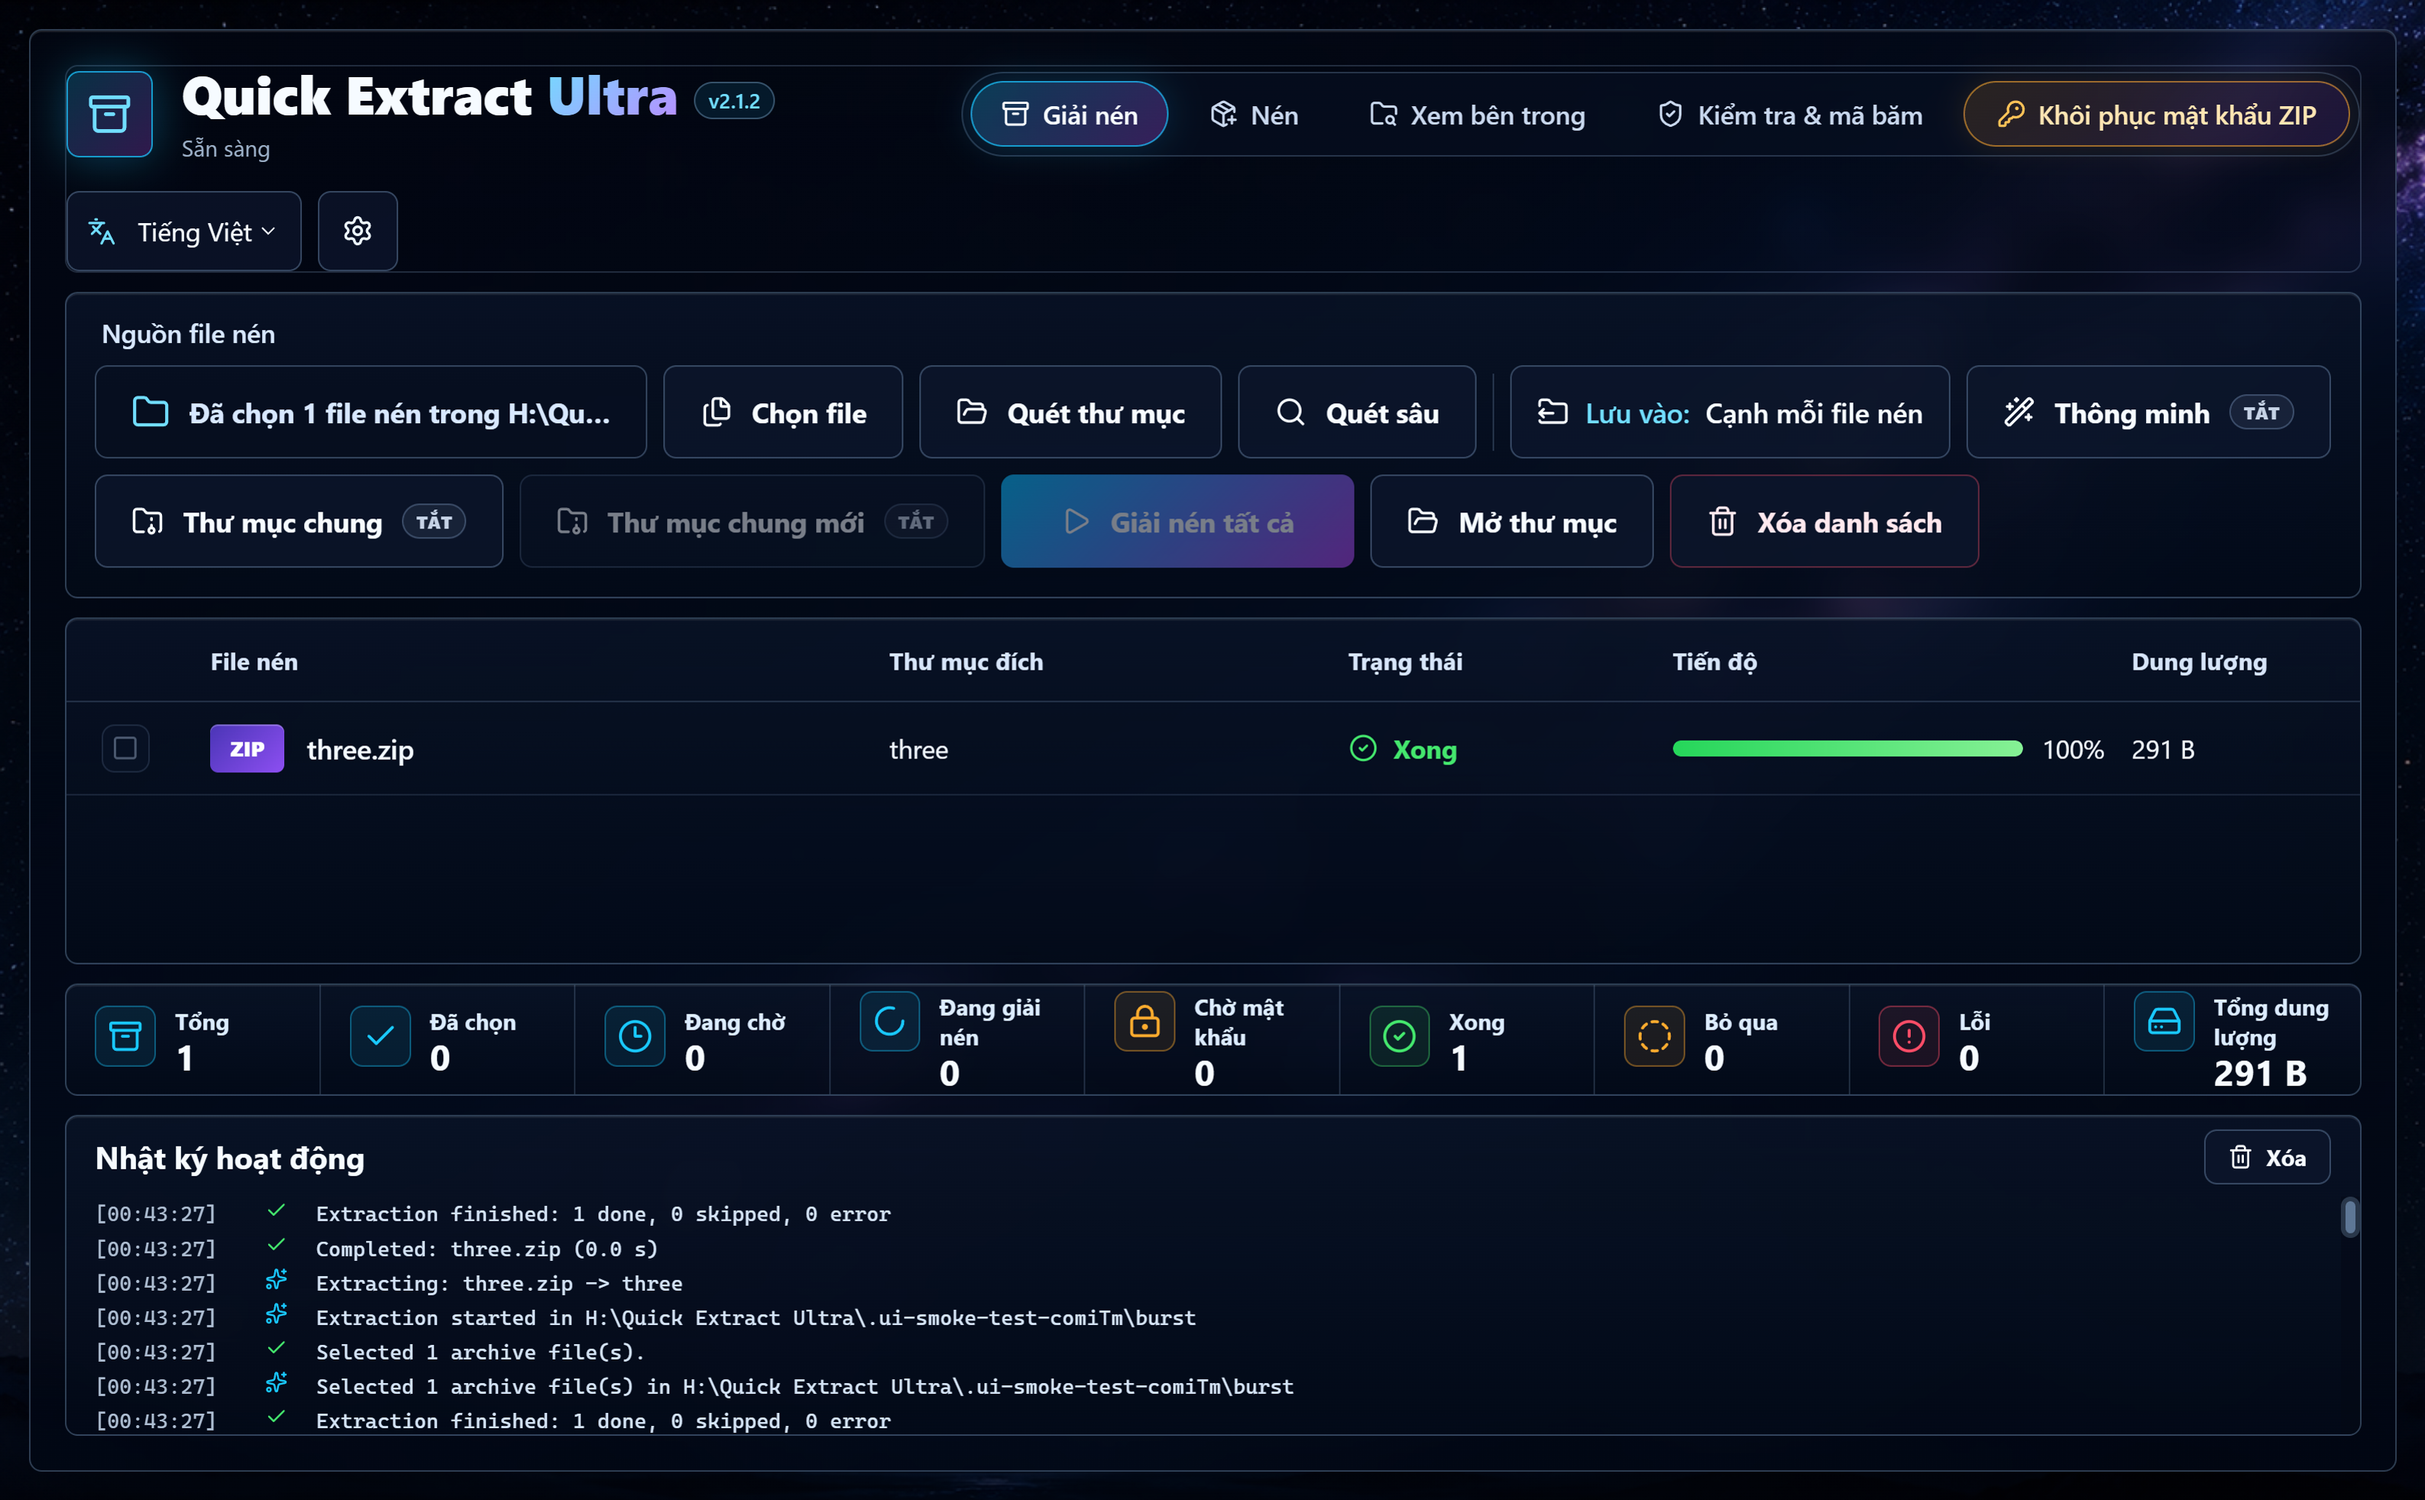
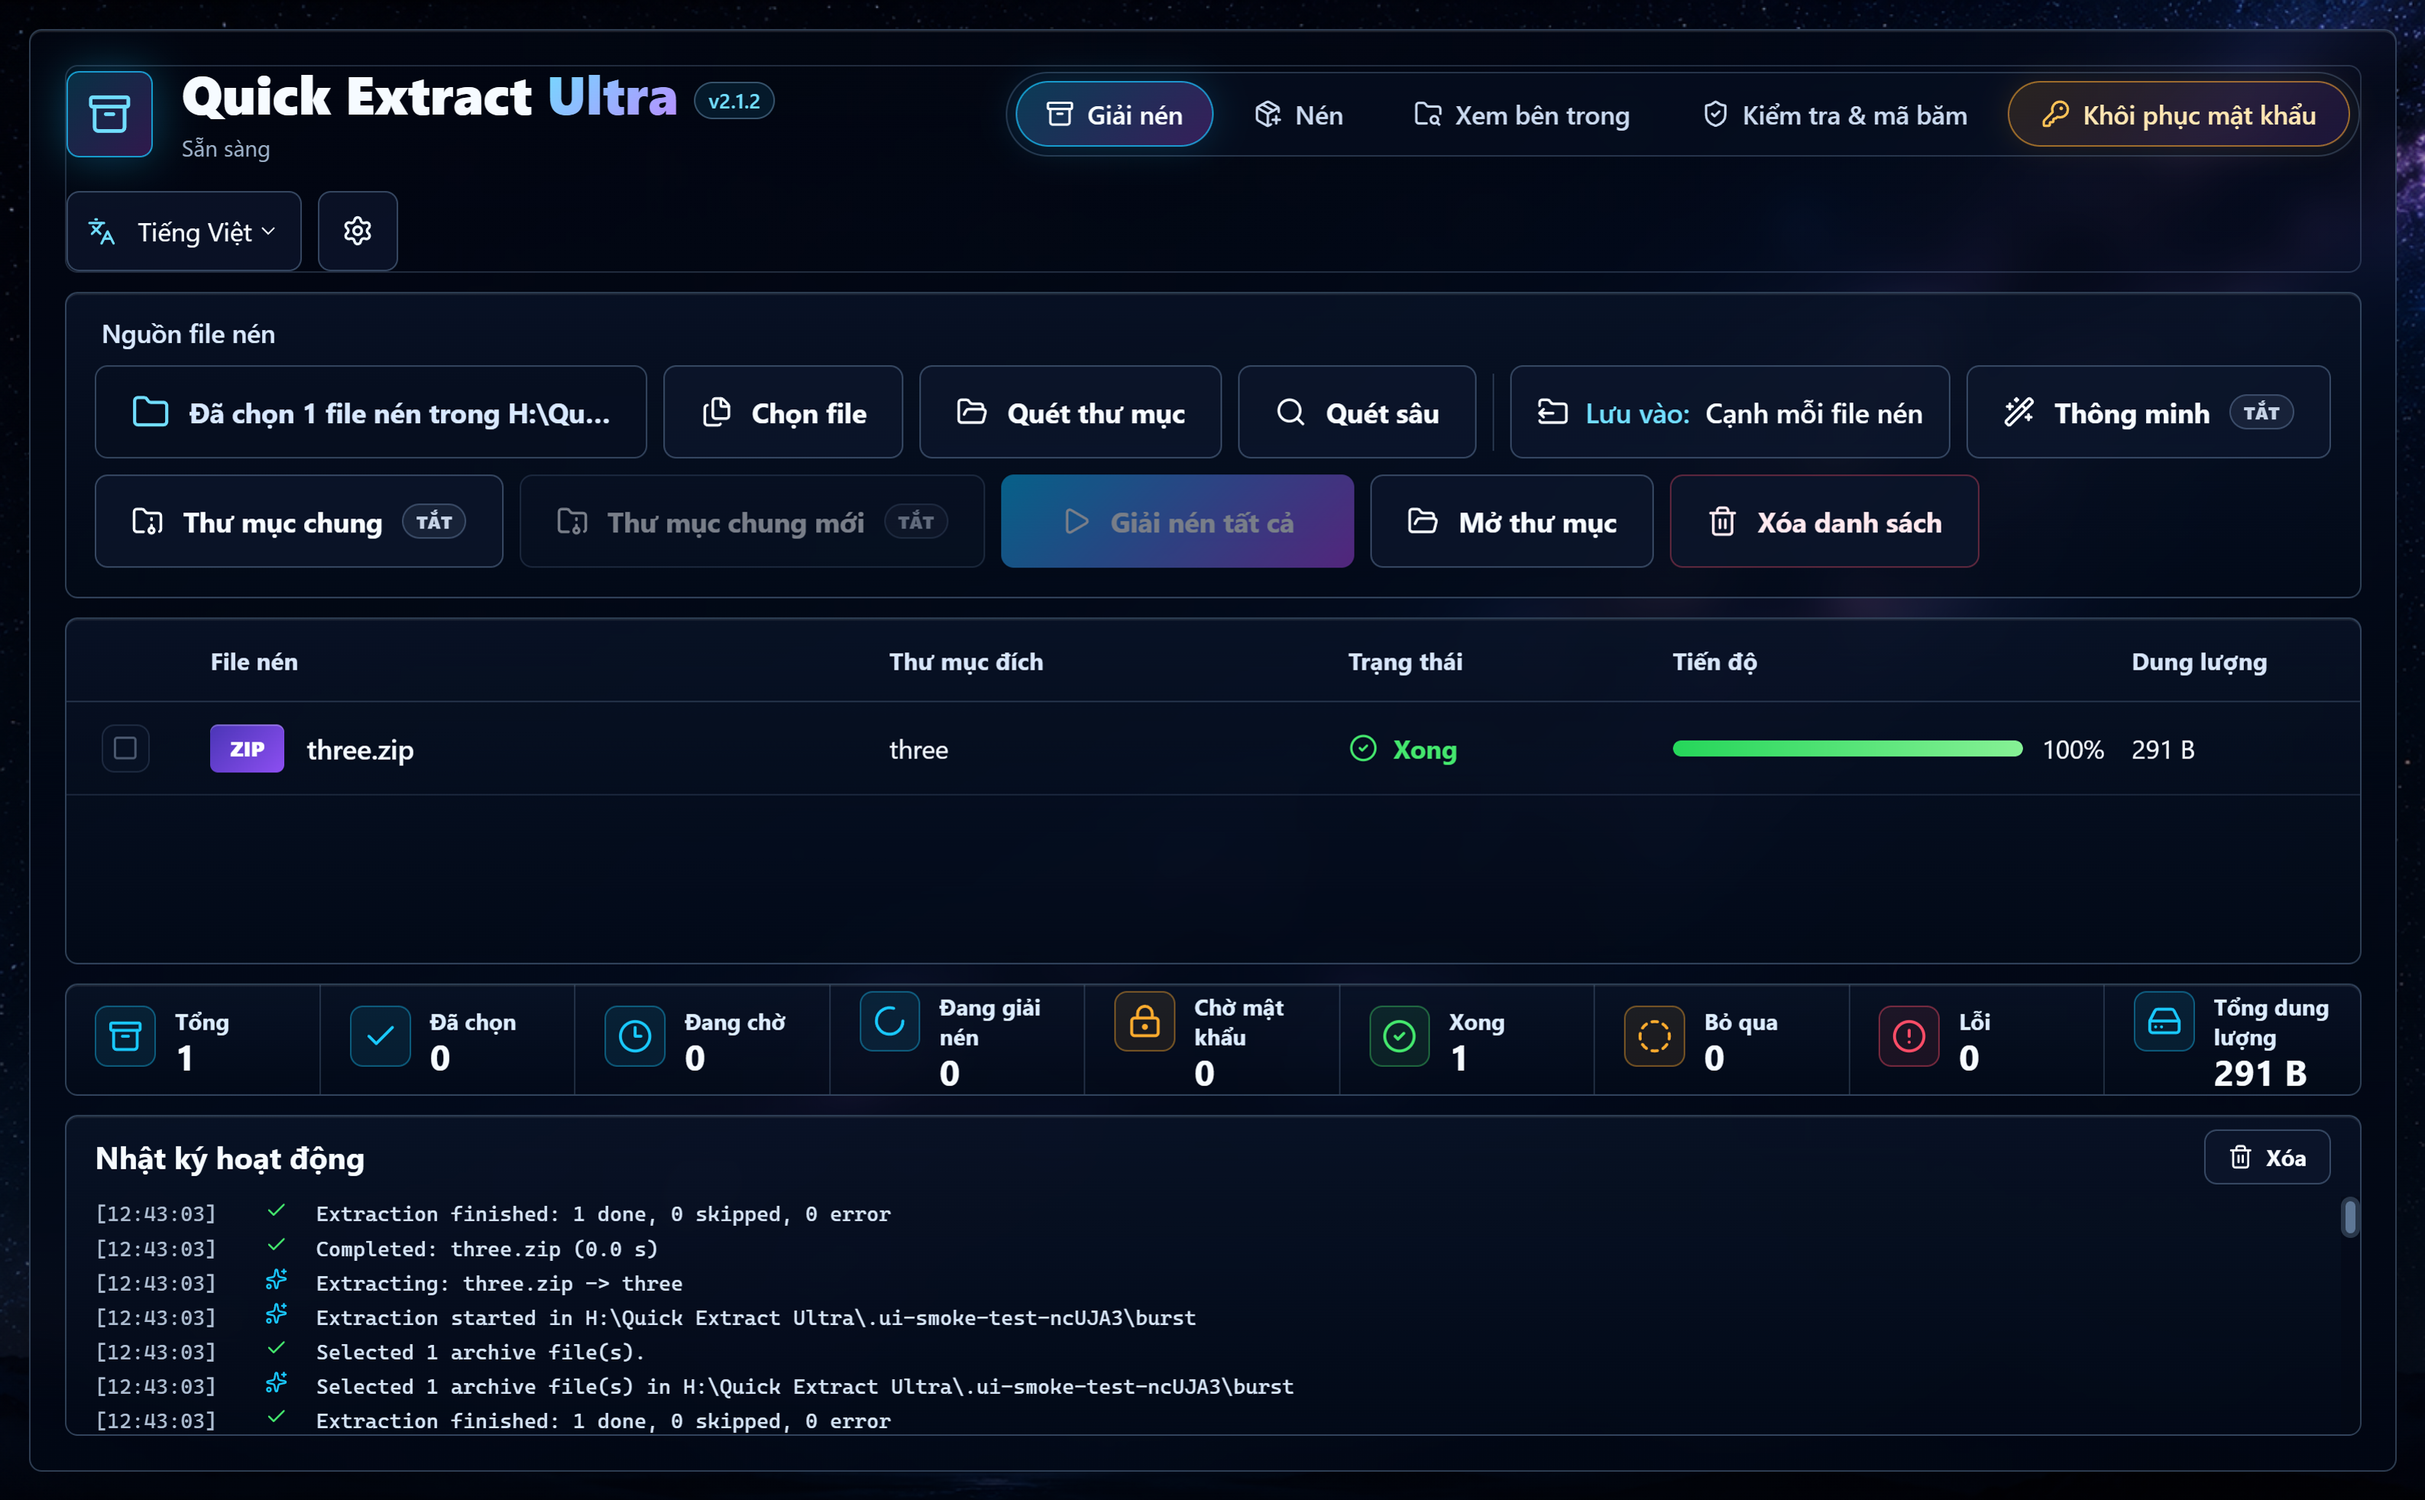
2.2.0: RAR password recovery (in addition to ZIP)
- Recovery auto-detects the archive type and supports RAR as well as ZIP:
  ZIP -> zip2john (+bkcrack for ZipCrypto known-plaintext); RAR -> rar2john
  + John the Ripper. Header-encrypted RAR (-hp) handled via rar2john even
  though 7-Zip cannot list it. One-button auto flow unchanged; tab renamed
  to "Recover password"; picker accepts .zip and .rar; a note warns RAR is
  much slower. 7z not supported (7z2john needs Perl).
- Fix: write the bare hash token; rar2john's full-path prefix (C:\...:) made
  John mis-split login:hash and report "No password hashes loaded".

Verified: 42/42 tests; real RAR5 (-hp and -p) made with WinRAR recovered
end-to-end via rar2john + John.

diff --git a/src/RecoverView.tsx b/src/RecoverView.tsx
@@ -396,6 +396,10 @@ export default function RecoverView({ addLog }: Props) {
             </div>
           )}
 
+          {inspection?.format === 'rar' && (
+            <p className="hint small-print"><AlertTriangle size={16} />{t('recover.rarSlow')}</p>
+          )}
+
           {inspection && isZipCrypto && (
             <div className="known-plain">
               <p className="muted">{t('recover.knownHint')}</p>

diff --git a/src/types.d.ts b/src/types.d.ts
@@ -158,6 +158,7 @@ export interface EncryptedEntry {
 
 export interface ZipInspection {
   fileName: string;
+  format: 'zip' | 'rar';
   encrypted: EncryptedEntry[];
   zipCrypto: boolean;
 }

diff --git a/CHANGELOG.md b/CHANGELOG.md
@@ -9,6 +9,26 @@ Version notes are required for every future app change. Each release should reco
 - Verification performed.
 - Package or shortcut changes, if any.
 
+## 2.2.0 - 2026-10-22
+
+### Added
+
+- **Password recovery now supports RAR as well as ZIP.** The app auto-detects the archive type: ZIP uses `zip2john` (and bkcrack for the ZipCrypto known-plaintext fast path); RAR uses `rar2john` (bundled with John, no extra dependency) and John the Ripper. Header-encrypted RAR (made with `-hp`) is handled too — 7-Zip can't list it without the password, but `rar2john` reads it. The one-button "Try automatically" flow is unchanged. The tab is now "Recover password" and the picker accepts `.zip` and `.rar`.
+  - A note warns that RAR (especially RAR5) uses strong encryption, so recovery is much slower than ZIP and realistically only finds short, numeric, or common passwords.
+  - 7z is still not supported (its `7z2john` is a Perl script and John's Windows build ships no Perl).
+
+### Fixed
+
+- Hashes are now written as the **bare token** (`$zip2$…`, `$rar5$…`). `rar2john` prefixes the archive's full path, whose drive-letter colon (`C:\…`) made John mis-split `login:hash` and report "No password hashes loaded". This affected RAR and could affect ZIP.
+
+### Verified
+
+- `npm test` 42/42, typecheck, build, UI smoke test. Real end-to-end on this machine: created RAR5 archives with WinRAR (both `-hp` header-encrypted and `-p` data-encrypted) and the engine's auto mode recovered the password through `rar2john` + John.
+
+### Package
+
+- Outputs: `QuickExtractUltra-Setup-2.2.0.exe`, `QuickExtractUltra-Portable-2.2.0-win-x64.zip`.
+
 ## 2.1.2 - 2026-10-22
 
 ### Added
